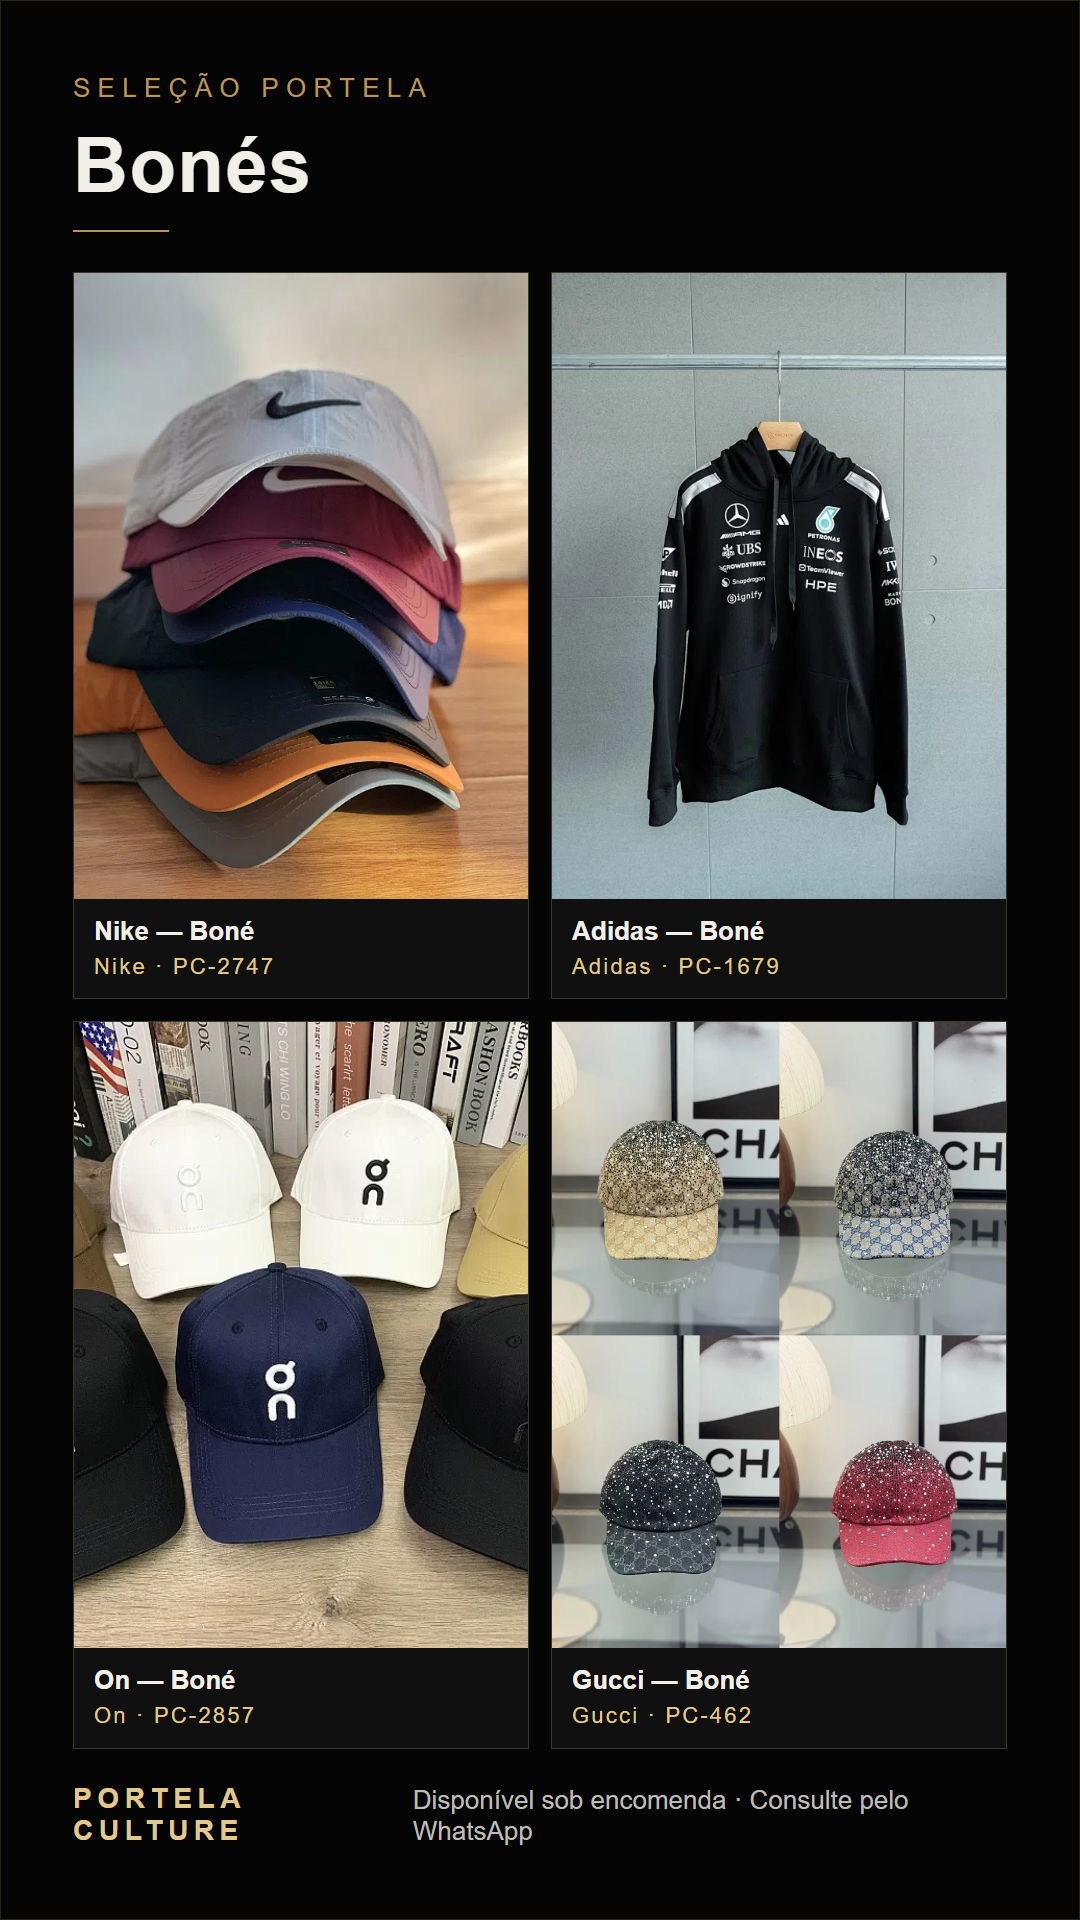
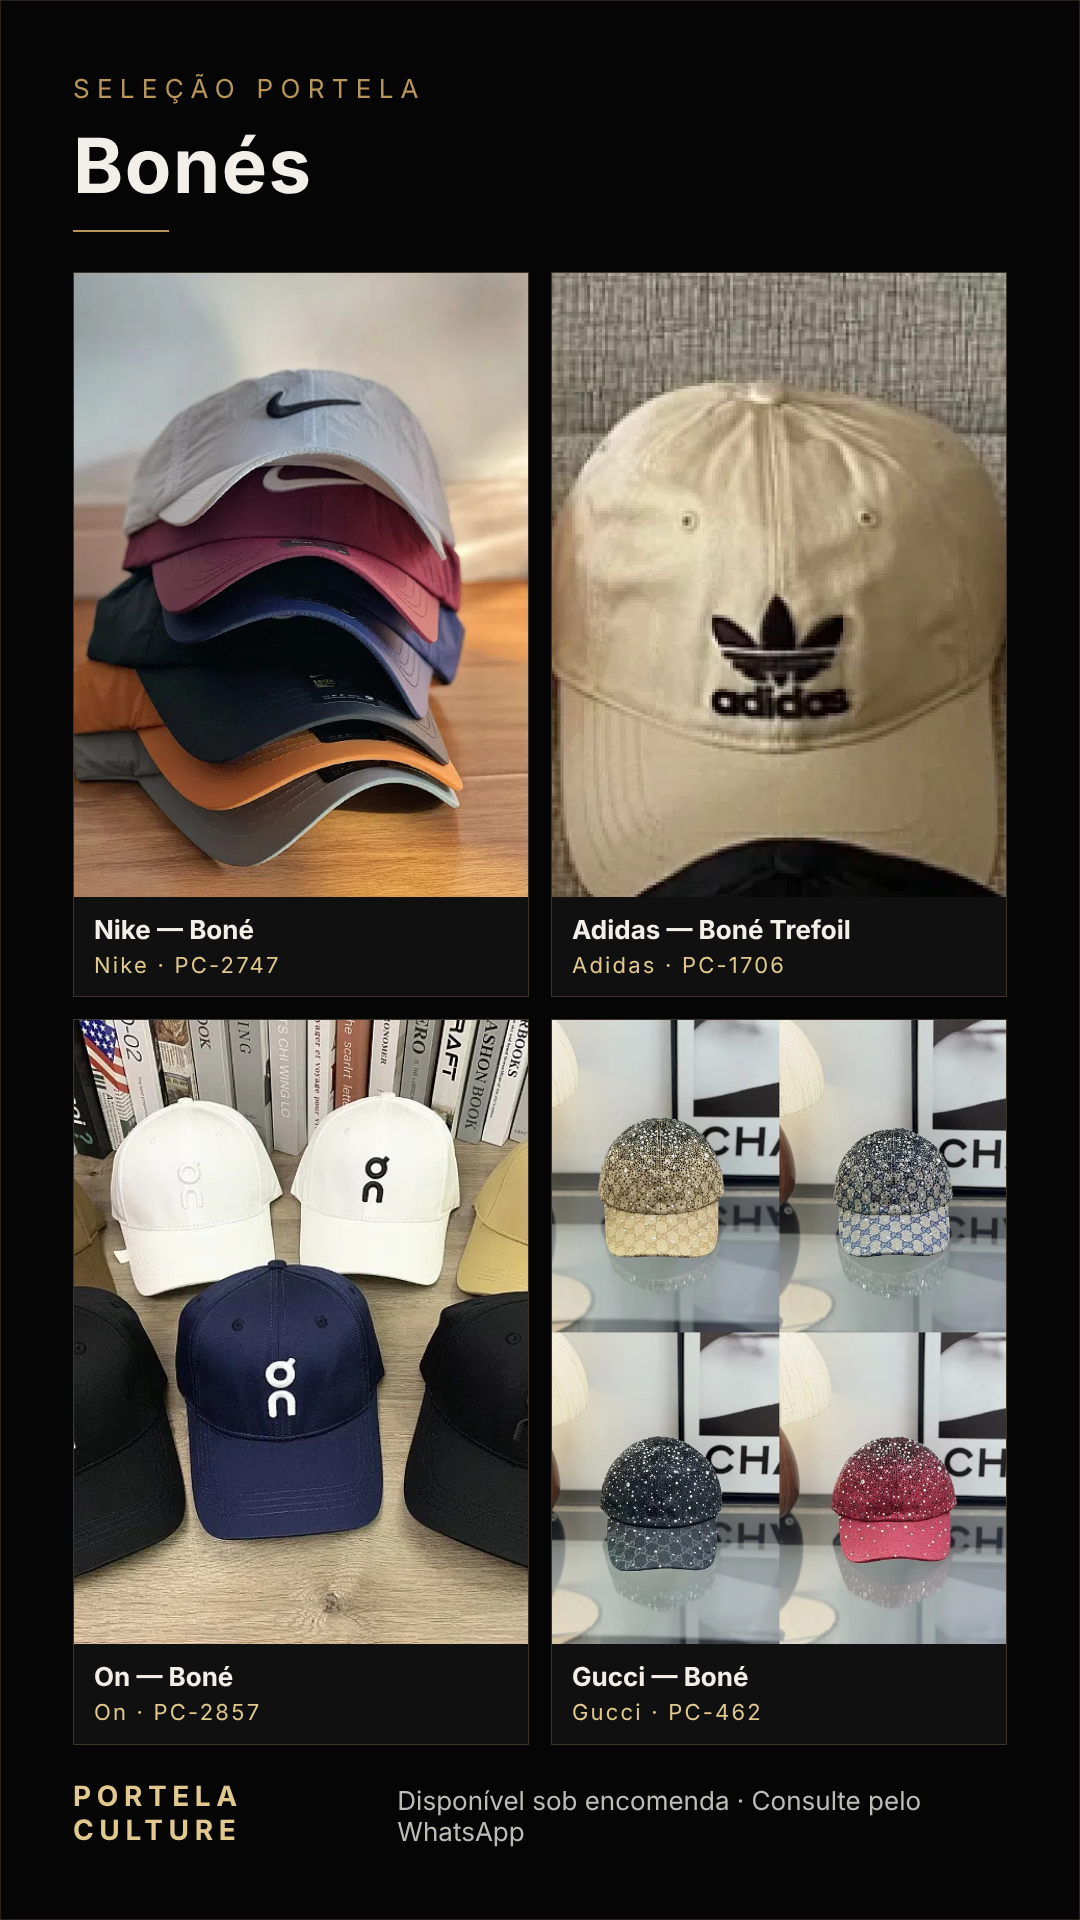
feat(vitrine): bone Adidas real nos Destaques e WhatsApp que some ao rolar no celular
PC-1706 (Bone Trefoil) substitui PC-1679 (moletom) na vitrine e na arte de bones (PNG regerado). Botao flutuante some ao rolar para baixo ate 820px e volta ao subir, no topo, no fim ou com foco; sem transform. catalogo.js?v=23. 100/100 testes, build ok, QA preview 53/53. Sem deploy.

Claude-Session: https://claude.ai/code/session_01WWq2h7u5na6eBYZrsxWK5x

diff --git a/public/catalogo.js b/public/catalogo.js
@@ -1,4 +1,5 @@
 const FALLBACK_IMAGE = 'media/imagem-indisponivel.svg';
+(() => { const fab = document.querySelector('.whatsapp'), small = matchMedia('(max-width: 820px)'); if (!fab) return; let last = scrollY, frame = 0; const update = () => { frame = 0; const y = scrollY, nearEnd = innerHeight + y >= document.documentElement.scrollHeight - 120, hide = small.matches && y > 160 && y > last + 8 && !nearEnd && document.activeElement !== fab; if (hide) fab.classList.add('recolhido'); else if (y < last - 8 || nearEnd || y <= 160 || !small.matches) fab.classList.remove('recolhido'); if (Math.abs(y - last) > 8) last = y; }; addEventListener('scroll', () => { if (!frame) frame = requestAnimationFrame(update); }, { passive: true }); fab.addEventListener('focus', () => fab.classList.remove('recolhido')); })();
 document.addEventListener('error', e => { const img = e.target; if (!(img instanceof HTMLImageElement) || !img.closest('.products, .thumbs, #produto') || img.getAttribute('src') === FALLBACK_IMAGE) return; img.src = FALLBACK_IMAGE; if (img.alt) img.alt += ' (imagem indisponível)'; }, true);
 const menu = document.querySelector('.menu');
 const nav = document.querySelector('#nav');
@@ -130,7 +131,7 @@ fetch('catalogo.json?v=21',{cache:'no-cache'}).then(r => { if (!r.ok) throw new 
   const curated = document.querySelector('#curated');
   ['PC-001', 'PC-003', 'PC-214'].forEach(id => { const p = data.find(item => item.id === id); if (!p) return; const card = document.createElement('button'), image = document.createElement('img'), info = document.createElement('div'), title = document.createElement('h3'), ref = document.createElement('p'), action = document.createElement('span'); card.type = 'button'; card.className = 'product-card'; card.setAttribute('aria-label', 'Seleção Portela: ' + p.nome + ', ' + p.id); image.src = p.fotos[0]; image.alt = p.nome; image.loading = 'lazy'; image.width = image.height = 720; info.className = 'product-info'; title.textContent = p.nome; ref.textContent = p.id + ' · Disponível sob encomenda'; action.textContent = 'Ver detalhes'; info.append(ref,title,action); card.append(image,info); card.addEventListener('click',()=>showProduct(p)); curated.append(card); });
   const featured = document.querySelector('#destaques-lista');
-  if (featured) ['PC-351', 'PC-355', 'PC-214', 'PC-362', 'PC-368', 'PC-374', 'PC-2747', 'PC-1679', 'PC-2857', 'PC-462', 'PC-474', 'PC-2809'].forEach(id => { const p = data.find(item => item.id === id); if (!p || !p.fotos?.length) return; const card = document.createElement('button'), image = document.createElement('img'), info = document.createElement('div'), title = document.createElement('h3'), ref = document.createElement('p'), action = document.createElement('span'); card.type = 'button'; card.className = 'product-card'; card.setAttribute('aria-label', 'Destaque Portela: ' + p.nome + ', ' + p.marca + ', ' + p.id); image.src = p.fotos[0]; image.alt = p.nome + ' — ' + p.id; image.loading = 'lazy'; image.decoding = 'async'; image.width = image.height = 720; info.className = 'product-info'; title.textContent = p.nome; ref.textContent = p.marca + ' · ' + p.id; action.textContent = 'Ver detalhes'; info.append(ref,title,action); card.append(image,info); card.addEventListener('click',()=>showProduct(p)); featured.append(card); });
+  if (featured) ['PC-351', 'PC-355', 'PC-214', 'PC-362', 'PC-368', 'PC-374', 'PC-2747', 'PC-1706', 'PC-2857', 'PC-462', 'PC-474', 'PC-2809'].forEach(id => { const p = data.find(item => item.id === id); if (!p || !p.fotos?.length) return; const card = document.createElement('button'), image = document.createElement('img'), info = document.createElement('div'), title = document.createElement('h3'), ref = document.createElement('p'), action = document.createElement('span'); card.type = 'button'; card.className = 'product-card'; card.setAttribute('aria-label', 'Destaque Portela: ' + p.nome + ', ' + p.marca + ', ' + p.id); image.src = p.fotos[0]; image.alt = p.nome + ' — ' + p.id; image.loading = 'lazy'; image.decoding = 'async'; image.width = image.height = 720; info.className = 'product-info'; title.textContent = p.nome; ref.textContent = p.marca + ' · ' + p.id; action.textContent = 'Ver detalhes'; info.append(ref,title,action); card.append(image,info); card.addEventListener('click',()=>showProduct(p)); featured.append(card); });
   if (requested) { const p = data.find(item => item.id === requested); if (p) showProduct(p); else status.textContent = 'Referência não encontrada. Explore os modelos disponíveis ou consulte a loja.'; }
 }).catch(() => { status.textContent = 'Não foi possível carregar o catálogo. Atualize a página ou consulte a loja pelo WhatsApp.'; more.hidden = true; });
 

diff --git a/public/index.html b/public/index.html
@@ -36,6 +36,7 @@
     .hero-copy{font:500 clamp(1rem,2vw,1.35rem)/1.7 Inter;letter-spacing:.03em;color:#ddd;margin:26px 0}.story-cue{display:inline-block;margin-top:32px;color:var(--gold2);font-size:.875rem;border-bottom:1px solid var(--line)}.manifesto{padding:95px 0}.style-grid{grid-template-columns:1fr}.journeys{display:grid;grid-template-columns:repeat(3,minmax(0,1fr));gap:18px}.journeys a{padding:30px 24px;min-height:250px;border:1px solid #3d362b;background:#101010}.journeys span,.steps span{color:var(--gold2);font-size:.875rem;letter-spacing:.1em}.journeys h3{font:700 2rem Manrope;margin:22px 0 12px}.journeys p{color:#bdbdb7}.journeys b{color:var(--gold2);font-size:.875rem}.journeys a:hover{border-color:var(--gold)}.how{background:#0b0b0b;border-block:1px solid #282828}.steps{padding:0;list-style:none;display:grid;grid-template-columns:repeat(3,minmax(0,1fr));gap:36px;margin:40px 0 55px}.steps h3{font:700 1.3rem Manrope}.steps p,.questions p{color:#bdbdb7}.questions{max-width:900px}.questions details{padding:20px 0;border-top:1px solid #333}.questions summary{font-weight:600;cursor:pointer;padding:4px 0}.questions p{margin-bottom:0}.order-fields{display:grid;grid-template-columns:1fr 1fr;gap:14px}.order-fields label{display:grid;gap:8px;font-size:.875rem}.order-fields label span{color:#aaa}.order-fields input{min-height:48px;width:100%;background:#1d1d1d;border:1px solid #777;color:white;padding:12px;font:inherit}.form-note{font-size:.875rem;color:#bdbdb7}.product-link{display:block;margin-top:22px;color:var(--gold2);text-decoration:underline}.curated{margin-top:35px}.featured{margin-top:35px}.featured .product-card:focus-visible{outline:2px solid var(--gold2);outline-offset:2px}.featured .product-info span{color:var(--gold2);font-size:.875rem}@media(max-width:820px){.featured{grid-template-columns:repeat(2,minmax(0,1fr))}}.steps li{border-top:1px solid var(--gold);padding-top:22px}.brand-item{color:#c2bcb1}.foot{flex-wrap:wrap}
     @media(max-width:820px){.journeys,.steps{grid-template-columns:1fr}.journeys a{min-height:200px}.curated{grid-template-columns:1fr}.curated .product-card{display:grid;grid-template-columns:40% 60%;align-items:center}.curated .product-card img{height:100%;object-fit:cover}.order-fields{grid-template-columns:1fr}.manifesto{padding:70px 0}.hero{background-position:62% center}.hero-copy{font-size:1.1rem}.steps{gap:22px}}
     .order-fields label[hidden]{display:none}
+    .whatsapp{transition:opacity .2s ease,visibility .2s}.whatsapp.recolhido{opacity:0;visibility:hidden;pointer-events:none}
     @media(max-width:360px){.whatsapp{right:12px;bottom:max(12px,env(safe-area-inset-bottom));padding:11px 14px;min-height:44px;font-size:.875rem}main{padding-bottom:76px}}
 </style>
 <link rel="stylesheet" href="premium.css?v=6"><link rel="stylesheet" href="catalog-navigation.css?v=16">
@@ -51,7 +52,7 @@
   <footer><div class="wrap foot"><strong>PORTELA CULTURE</strong><div>ESTILO • PERFORMANCE • PRESENÇA • LIFESTYLE</div><div>© 2026 PORTELA CULTURE</div></div></footer>
   <script src="conversao-core.js?v=9" defer></script>
 <script src="conversao.js?v=7" defer></script>
-<script src="catalogo-core.js?v=18" defer></script><script src="catalogo.js?v=22" defer></script>
+<script src="catalogo-core.js?v=18" defer></script><script src="catalogo.js?v=23" defer></script>
 <script src="motion.js?v=5" defer></script>
 <dialog id="ia-dialog" aria-labelledby="ia-title"><button type="button" class="close" aria-label="Fechar ajuda">×</button><div class="eyebrow">Curadoria Portela · Assistente com IA</div><h2 id="ia-title">Encontre sua próxima referência.</h2><p>Conte a marca, linha ou estilo que procura. A IA pode sugerir modelos do catálogo. Condições comerciais são confirmadas pela loja.</p><form id="ia-form"><label for="ia-message">O que você procura?</label><textarea id="ia-message" maxlength="600" required placeholder="Ex.: ASICS em preto e prata para um visual casual"></textarea><button class="btn primary" id="ia-send" type="submit">CONSULTAR SELEÇÃO</button></form><p id="ia-status" role="status" aria-live="polite">Qual marca ou modelo você procura?</p><div id="ia-results"></div><div class="ai-actions"><a id="ia-contact" class="btn primary" target="_blank" rel="noopener">CONTINUAR NO WHATSAPP</a><button id="ia-reset" class="btn" type="button">Nova seleção</button></div><p class="form-note">Não informe dados pessoais ou de pagamento. Suas mensagens são enviadas à OpenAI para selecionar referências; a conversa não acessa os registros privados de atendimento. A mensagem do WhatsApp será revisada e enviada por você.</p></dialog><script src="ia.js?v=14" defer></script></body>
 </html>

diff --git a/docs/materiais-vitrine/story-bones-1080x1920.html b/docs/materiais-vitrine/story-bones-1080x1920.html
@@ -23,7 +23,7 @@ footer{margin-top:34px;display:flex;justify-content:space-between;align-items:en
 </main>
 <script>
 const base=new URLSearchParams(location.search).get('base')||'';
-const items=[{"id":"PC-2747","nome":"Nike — Boné","marca":"Nike","src":"media/catalogo/colecao-20261010/PC-2747/001.webp"},{"id":"PC-1679","nome":"Adidas — Boné","marca":"Adidas","src":"media/catalogo/colecao-20261010/PC-1679/001.webp"},{"id":"PC-2857","nome":"On — Boné","marca":"On","src":"media/catalogo/colecao-20261010/PC-2857/001.webp"},{"id":"PC-462","nome":"Gucci — Boné","marca":"Gucci","src":"media/catalogo/gucci/248736687/capa.webp"}];
+const items=[{"id":"PC-2747","nome":"Nike — Boné","marca":"Nike","src":"media/catalogo/colecao-20261010/PC-2747/001.webp"},{"id":"PC-1706","nome":"Adidas — Boné Trefoil","marca":"Adidas","src":"media/catalogo/colecao-20261010/PC-1706/002.webp"},{"id":"PC-2857","nome":"On — Boné","marca":"On","src":"media/catalogo/colecao-20261010/PC-2857/001.webp"},{"id":"PC-462","nome":"Gucci — Boné","marca":"Gucci","src":"media/catalogo/gucci/248736687/capa.webp"}];
 const grid=document.getElementById('grid');
 for(const it of items){const f=document.createElement('figure'),ph=document.createElement('div'),c=document.createElement('figcaption');ph.className='ph';
  if(base){const i=new Image();i.alt=it.nome+' — '+it.id;i.src=base+it.src;i.onerror=()=>{i.remove();ph.textContent=it.id};ph.append(i);}else ph.textContent=it.id;

diff --git a/docs/v8-cat/qa-preview-2.py b/docs/v8-cat/qa-preview-2.py
@@ -1,0 +1,80 @@
+import json
+from playwright.sync_api import sync_playwright
+
+BASE = 'http://127.0.0.1:8795/'
+OUT = '/home/claude/v8cat/'
+R = []
+def check(name, ok, info=''):
+    R.append({'check': name, 'ok': bool(ok), 'info': str(info)[:160]})
+
+def fab_hidden(page):
+    return page.evaluate("getComputedStyle(document.querySelector('.whatsapp')).visibility") == 'hidden'
+
+with sync_playwright() as p:
+    b = p.chromium.launch()
+    for w, h in [(1440, 900), (390, 844), (360, 740), (320, 640)]:
+        ctx = b.new_context(viewport={'width': w, 'height': h})
+        page = ctx.new_page()
+        errs = []
+        page.on('pageerror', lambda e: errs.append(str(e)))
+        page.on('console', lambda m: errs.append('console:' + m.text) if m.type == 'error' and '503' not in m.text and 'Failed to load resource' not in m.text else None)
+        page.goto(BASE, wait_until='networkidle')
+        page.wait_for_function("document.querySelectorAll('#destaques-lista .product-card').length>0", timeout=15000)
+        txt = page.locator('#destaques-lista').inner_text()
+        check(f'{w} destaques 12 cards', page.locator('#destaques-lista .product-card').count() == 12)
+        check(f'{w} vitrine com PC-1706 e sem PC-1679', 'PC-1706' in txt and 'PC-1679' not in txt)
+        check(f'{w} sem overflow', page.evaluate('document.documentElement.scrollWidth-innerWidth') <= 0)
+        # rolagem do botao
+        page.evaluate('scrollTo(0,0)'); page.wait_for_timeout(300)
+        check(f'{w} botao visivel no topo', not fab_hidden(page))
+        for y in (400, 800, 1200):
+            page.mouse.wheel(0, 400); page.wait_for_timeout(120)
+        page.wait_for_timeout(400)
+        hidden_down = fab_hidden(page)
+        check(f'{w} botao ao rolar para baixo', hidden_down == (w <= 820), 'oculto' if hidden_down else 'visivel')
+        page.mouse.wheel(0, -300); page.wait_for_timeout(500)
+        check(f'{w} botao volta ao rolar para cima', not fab_hidden(page))
+        page.evaluate('scrollTo(0,document.documentElement.scrollHeight)'); page.wait_for_timeout(1500)
+        check(f'{w} botao visivel no fim da pagina', not fab_hidden(page))
+        # menu (mobile)
+        if w <= 820:
+            page.evaluate('scrollTo(0,0)')
+            page.locator('.menu').click(); page.wait_for_timeout(200)
+            check(f'{w} menu abre', page.locator('.menu').get_attribute('aria-expanded') == 'true')
+            page.locator('.menu').click()
+        # quiz: abre, Perfumaria, avanca ate o resumo, fecha
+        page.goto(BASE + '#catalogo', wait_until='networkidle')
+        page.locator('[data-open-quiz]').click(); page.wait_for_timeout(300)
+        check(f'{w} quiz abre com Perfumaria', page.locator('#quiz input[value="perfumaria"]').count() == 1 and page.locator('#quiz').evaluate('d=>d.open'))
+        page.locator('#quiz input[value="perfumaria"]').check(force=True)
+        page.locator('#quiz input[value="casual"]').check(force=True)
+        for _ in range(3):
+            if page.locator('#quiz-summary').is_visible(): break
+            page.locator('#quiz-next').click(); page.wait_for_timeout(300)
+        summary = page.locator('#quiz-summary').inner_text() if page.locator('#quiz-summary').is_visible() else ''
+        href = page.locator('#quiz-contact').get_attribute('href') or ''
+        check(f'{w} quiz conclui com Perfumaria no resumo e WhatsApp', 'Perfumaria' in summary and 'erfumaria' in href, summary[:80])
+        page.locator('#quiz .close').click(); page.wait_for_timeout(200)
+        check(f'{w} quiz fecha', not page.locator('#quiz').evaluate('d=>d.open'))
+        # produto corrigido + tamanho/cidade opcionais no WhatsApp
+        page.goto(BASE + '?produto=PC-1950', wait_until='networkidle'); page.wait_for_timeout(600)
+        page.locator('#pedido-tamanho').fill('M'); page.locator('#pedido-cidade').fill('Brasília / DF'); page.wait_for_timeout(200)
+        href = page.locator('#order').get_attribute('href') or ''
+        title = page.locator('#product-title').inner_text()
+        check(f'{w} PC-1950 Adidas + WhatsApp com ref, tamanho e cidade', 'Adidas' in title and 'PC-1950' in href and 'M' in href, title)
+        check(f'{w} sem erro critico', not errs, '; '.join(errs))
+        ctx.close()
+    # imagem quebrada -> fallback
+    ctx = b.new_context(viewport={'width': 390, 'height': 844}); page = ctx.new_page()
+    page.route('**/media/001-01.webp', lambda r: r.abort())
+    page.goto(BASE, wait_until='networkidle'); page.locator('#curated').scroll_into_view_if_needed(); page.wait_for_timeout(1500)
+    srcs = page.evaluate("[...document.querySelectorAll('#curated img')].map(i=>i.getAttribute('src'))")
+    check('imagem quebrada usa fallback', any('imagem-indisponivel' in (s or '') for s in srcs), srcs[:2])
+    r = page.goto(BASE + 'rota-que-nao-existe', wait_until='domcontentloaded')
+    check('rota inexistente nao quebra (status tratado)', r.status in (200, 404), r.status)
+    ctx.close(); b.close()
+
+json.dump(R, open(OUT + 'qa2.json', 'w'), ensure_ascii=False, indent=1)
+f = [x for x in R if not x['ok']]
+print(f'{len(R)-len(f)}/{len(R)} ok')
+for x in f: print('FALHA', x)

diff --git a/docs/v8-cat/RESULTADO.md b/docs/v8-cat/RESULTADO.md
@@ -21,8 +21,13 @@ Branch `feature/v8-cat-20261014` = 8446bf3 (vitrine no ar, v23) + V7 (6ea59ae, n
 ## Não feito / duvidoso (não alterado)
 - 17 linhas com nome "brando" (ex.: blusas em Camisetas, conjuntos Tech Fleece em Jaquetas/Calças, viseira em Bonés). Aceitáveis; não alterei sem critério do coordenador.
 - Os "19 possíveis duplicados" e as listas antigas de 67/74/99 não existiam em arquivo; refiz a auditoria por critérios objetivos (marca no nome × campo marca; tipo de peça × categoria/linha) e conferi cada caso por foto.
-- Botão flutuante: em 320/360px ele ainda passa por cima de parte de um card durante a rolagem (é fixo). Ficou menor e o fim da página tem espaço reservado. Eliminar 100% exige decisão de design (ex.: esconder ao rolar para baixo).
+- Botão flutuante sobre cards ao rolar: resolvido na 2ª entrega (abaixo).
 
-## Pontos para o ChatGPT/Daniel
-- Vitrine "Destaques" usa PC-1679 como boné; ele é moletom. Continua exibido corretamente como Adidas, mas o texto "Tênis, bonés e camisas" e a arte `docs/materiais-vitrine/story-bones-1080x1920` (não publicada) usam esse item como boné. Sugestão: trocar por um boné Adidas real.
-- Publicação: aplicar a branch sobre a fonte atual do Sites (ChatGPT, após 18:40). Reversão = versão 23.
+## 2ª entrega (decisões do Daniel, 14/10)
+- Vitrine Destaques: PC-1679 (moletom) trocado por **PC-1706 — Adidas Boné Trefoil** (trevo e escrita "adidas" nas fotos). Arte `docs/materiais-vitrine/story-bones-1080x1920` atualizada e PNG regerado com as fotos do site (4/4 carregadas). Não postar sem aprovação.
+- Botão WhatsApp em telas até 820px: some ao rolar para baixo (após 160px) e volta ao rolar para cima, no topo, no fim da página ou ao receber foco. Usa opacidade/visibilidade, sem transform, então o modo de movimento reduzido continua funcionando. Desktop não muda.
+- `catalogo.js?v=23` para os navegadores pegarem o script novo.
+- Verificação: 100/100 testes, build OK, validate-artifact OK, diff --check limpo. QA preview 53/53 (1440/390/360/320): vitrine com PC-1706, sem overflow, botão some/volta/aparece no fim, menu, quiz abre/conclui com Perfumaria/fecha, produto corrigido com tamanho e cidade no WhatsApp, imagem quebrada usa fallback, rota inexistente tratada, sem erro crítico. Detalhes em `qa-preview-2.json`.
+
+## Para o ChatGPT
+- Revisar manifesto e este relatório; aplicar a branch sobre a fonte atual do Sites; deploy; QA de produção. Reversão = versão 23.
